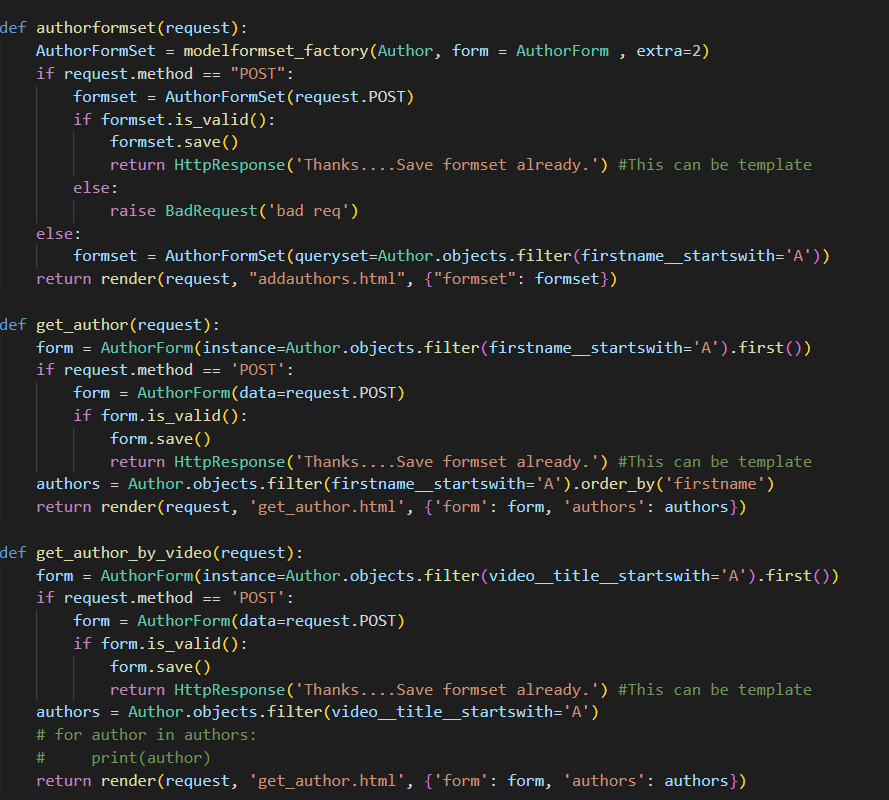
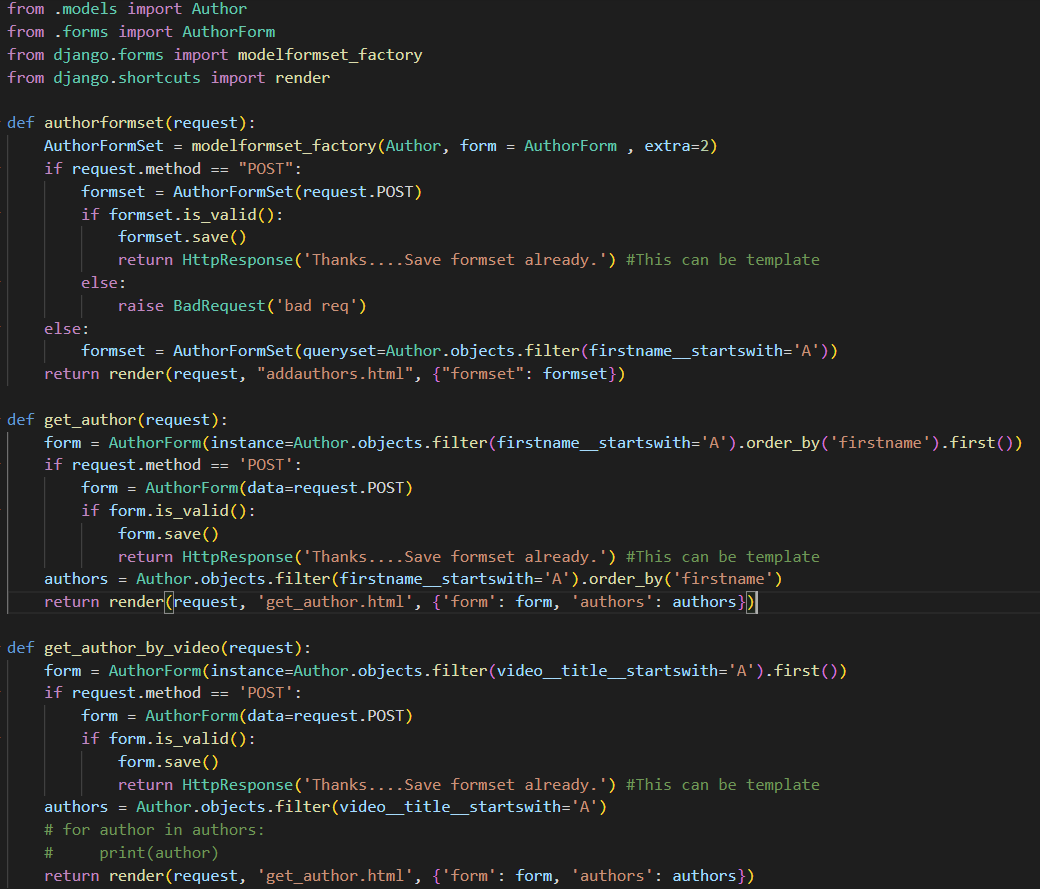
lab5

diff --git a/lab5/lab5_1/views.py b/lab5/lab5_1/views.py
@@ -20,7 +20,7 @@ def authorformset(request):
     return render(request, "addauthors.html", {"formset": formset})
 
 def get_author(request):
-    form = AuthorForm(instance=Author.objects.filter(firstname__startswith='A').first())
+    form = AuthorForm(instance=Author.objects.filter(firstname__startswith='A').order_by('firstname').first())
     if request.method == 'POST':
         form = AuthorForm(data=request.POST)
         if form.is_valid():
